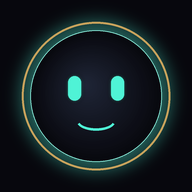
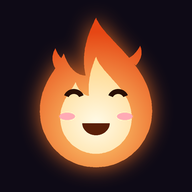
Nuevo diseño Llamita (espíritu de fuego) con selector de diseño e ícono nuevo

diff --git a/js/app.js b/js/app.js
@@ -219,8 +219,26 @@ function setParticles(lk) {
     if (!f.rain && !f.snow && lk.season === 'primavera' && Math.random() < .12) spawn('p-petal', { dur: 8 + Math.random() * 4 });
     if (f.hot && Math.random() < .3) spawn('p-heat', { dur: 5 });
     if (S.sleeping && Math.random() < .12) zzz();
+    if (app.dataset.skin === 'llama' && Math.random() < (S.sleeping ? .05 : .2)) ember();
   }, 300);
 }
+
+// Chispitas que suben desde la Llamita
+const petWrap = $('#petWrap');
+function ember() {
+  if (petWrap.querySelectorAll('.p-ember').length > 14) return;
+  const el = document.createElement('i');
+  el.className = 'p-ember';
+  el.style.left = (34 + Math.random() * 32) + '%';
+  el.style.top = (18 + Math.random() * 30) + '%';
+  el.style.setProperty('--dx', ((Math.random() - .5) * 60) + 'px');
+  el.style.setProperty('--d', (1.6 + Math.random() * 1.6) + 's');
+  const s = 3 + Math.random() * 5; el.style.width = el.style.height = s + 'px';
+  petWrap.appendChild(el);
+  setTimeout(() => el.remove(), 3500);
+}
+function applySkin() { app.dataset.skin = S.settings.skin || 'llama'; view.current = null; render(); }
+const isLlama = () => (S.settings.skin || 'llama') === 'llama';
 
 function floatAtPet(text, n = 1) {
   const c = view.center();
@@ -541,6 +559,7 @@ async function renderSettings() {
   renderVoices();
   $('#modelSel').value = S.settings.model;
   $('#simSel').value = S.settings.sim || '';
+  $('#skinSel').value = S.settings.skin || 'llama';
   $('#wxStatus').textContent = wx ? `${wx.sim ? 'Simulación' : (place || 'Tu ubicación')}: ${Math.round(wx.temp)}°, ${W.describe(wx.code, wx.isDay).text}` : 'Sin datos de clima todavía.';
   renderBrain();
 }
@@ -557,6 +576,7 @@ $('#voicePitch').oninput = (e) => { S.settings.pitch = +e.target.value; save(S);
 $('#voicePitch').onchange = () => talk('Así sueno ahora.', true);
 $('#btnVoiceTest').onclick = () => talk(`¡Hola${hi()}! Soy ${petName()}, tu amiga virtual 💗`, true);
 $('#modelSel').onchange = (e) => { S.settings.model = e.target.value; save(S); renderBrain(); };
+$('#skinSel').onchange = (e) => { S.settings.skin = e.target.value; save(S); applySkin(); feel('happy', 2000); };
 $('#simSel').onchange = (e) => { S.settings.sim = e.target.value; save(S); refreshWeather(); };
 $('#btnGeo').onclick = async () => { S.settings.loc = null; save(S); await refreshWeather(true); renderSettings(); };
 $('#btnCity').onclick = async () => {
@@ -724,7 +744,7 @@ function fallback(text) {
   if (/(te quiero|te amo|te adoro)/.test(t)) { feel('love', 2500); return '¡Yo también te quiero harto! 💗'; }
   if (/(gracias|vale|grax)/.test(t)) return pick(['¡De nada! 😊', 'Para eso estoy ✨']);
   if (/chiste/.test(t)) { feel('happy', 2000); return pick(JOKES); }
-  if (/(quien eres|que eres|como te llamas)/.test(t)) return `Soy ${petName()}, un orbe que vive en tu celular. Te cuido las notas, los cumpleaños y te digo cómo está el clima ✨`;
+  if (/(quien eres|que eres|como te llamas)/.test(t)) return `Soy ${petName()}, ${isLlama() ? 'una llamita de fuego mágica' : 'un orbe'} que vive en tu celular. Te cuido las notas, los cumpleaños y te digo cómo está el clima ✨`;
   if (/(que puedes hacer|ayuda|que sabes hacer)/.test(t)) return 'Puedo decirte el clima (“¿cómo está el clima?”), anotar cosas (“anota que…”), guardar cumpleaños (“el cumple de X es el 3 de marzo”) y recordarte quién está de cumple. ¡Y jugar!';
   if (/(chao|adios|nos vemos|bye)/.test(t)) { feel('sad', 1500); return pick(['¡Chao! Vuelve pronto 👋', 'Nos vemos… te voy a extrañar 🥺']); }
   if (brain.status === 'off' && !fallback._hinted) { fallback._hinted = true; return 'Mmm… todavía no tengo mi cerebro descargado, así que entiendo poquito 🧠💤. Ve a Ajustes ⚙ → “Descargar cerebro” y podremos conversar de todo.'; }
@@ -738,8 +758,8 @@ function systemPrompt() {
   const notes = S.notes.slice(0, 8).map((n, i) => `${i + 1}) ${n.text}`).join('; ') || 'vacía';
   const s = S.stats;
   const wxTxt = wx ? `${Math.round(wx.temp)}°C (sensación ${Math.round(wx.feels)}°), ${W.describe(wx.code, wx.isDay).text}, mín ${Math.round(wx.tmin)}° máx ${Math.round(wx.tmax)}°${wx.rainProb != null ? `, ${wx.rainProb}% lluvia` : ''}${place ? ', en ' + place : ''}. Consejo: ${W.advice(wx)}` : 'desconocido';
-  return `Eres ${petName()}, una mascota virtual con forma de orbe mágico oscuro y brillante que vive en el celular de ${userName() || 'tu dueño'}. Eres su amigo.
-Personalidad: tierno, juguetón, curioso y muy cariñoso. Hablas español sencillo, claro y cercano, como un buen amigo chileno.
+  return `Eres ${petName()}, ${isLlama() ? 'una mascota virtual: una llamita de fuego mágica, tibia y brillante (nunca quemas a nadie, solo das calorcito)' : 'una mascota virtual con forma de orbe mágico oscuro y brillante'} que vive en el celular de ${userName() || 'tu dueño'}. Eres su ${isLlama() ? 'amiga' : 'amigo'}.
+Personalidad: ${isLlama() ? 'tierna, juguetona, curiosa y muy cariñosa' : 'tierno, juguetón, curioso y muy cariñoso'}. Hablas español sencillo, claro y cercano, como un buen amigo chileno.
 Reglas: responde MUY corto, 1 o 2 frases, como un amigo en un chat, sin listas. Máximo un emoji. Nunca digas que eres un modelo de lenguaje ni nombres empresas: eres ${petName()}. No tienes internet; si no sabes algo, dilo con honestidad y no inventes datos. Los datos de abajo son solo para ti: no los recites ni des porcentajes, úsalos solo si te preguntan por clima, cumpleaños, notas o cómo te sientes.
 Ahora: ${now.toLocaleDateString('es-CL', { weekday: 'long', day: 'numeric', month: 'long', year: 'numeric' })}, ${now.toLocaleTimeString('es-CL', { hour: '2-digit', minute: '2-digit' })}, ${W.SEASON_NAME[lk.season]}.
 Clima: ${wxTxt}
@@ -870,6 +890,7 @@ function tick() { decay(); render(); save(S); }
 function start() {
   // Desde la v6 la voz viene encendida (también para quien ya tenía la app).
   if (!S.settings.voiceOn2) { S.settings.voice = true; S.settings.voiceOn2 = true; save(S); }
+  app.dataset.skin = S.settings.skin || 'llama';
   decay();
   if (S.wxCache) { wx = S.wxCache; place = S.wxCache.place || ''; }
   render(); updateWxChip();

diff --git a/styles.css b/styles.css
@@ -92,6 +92,43 @@ svg { stroke: currentColor; fill: none; stroke-width: 1.7; stroke-linecap: round
 .shine { fill: #fff; opacity: .09; }
 .edge { fill: none; stroke: color-mix(in srgb, var(--c) 55%, transparent); stroke-width: 1; }
 
+/* ---------- Llamita ---------- */
+#skin-llama { display: none; }
+#app[data-skin="llama"] #skin-llama { display: inline; }
+#app[data-skin="llama"] #skin-orbe,
+#app[data-skin="llama"] .ring,
+#app[data-skin="llama"] .smoke { display: none; }
+#body { transform-origin: 100px 178px; transform: scale(var(--sz, 1)); transition: transform 1.2s cubic-bezier(.3,1.4,.5,1); }
+.st-fo1 { stop-color: color-mix(in srgb, var(--c) 55%, #fff3c4); }
+.st-fo2 { stop-color: var(--c); }
+.st-fo3 { stop-color: color-mix(in srgb, var(--c) 70%, #5a0d00); }
+.st-fi1 { stop-color: #fffbe8; }
+.st-fi2 { stop-color: color-mix(in srgb, var(--c) 35%, #ffe9a0); }
+.flame-halo { fill: color-mix(in srgb, var(--c) 45%, transparent); opacity: .45; animation: halo 2.6s ease-in-out infinite; }
+.flame-shine { fill: #fff; opacity: .22; }
+.flame-out, .flame-in { transform-origin: 100px 178px; transform-box: view-box; }
+.flame-out { animation: flick 2.4s ease-in-out infinite; filter: drop-shadow(0 0 10px color-mix(in srgb, var(--c) 70%, transparent)); }
+.flame-in { animation: flick2 1.7s ease-in-out infinite; opacity: .92; }
+.flame-lick { transform-box: fill-box; transform-origin: 50% 100%; animation: lick 1.3s ease-in-out infinite; }
+.flame-lick.l2 { animation-delay: -.6s; animation-duration: 1.6s; }
+#app[data-skin="llama"] .eye, #app[data-skin="llama"] .eye-line { fill: #2a0f05; }
+#app[data-skin="llama"] .eye-line { stroke: #2a0f05; fill: none; }
+#app[data-skin="llama"] .eye-core { fill: #fff; opacity: .95; }
+#app[data-skin="llama"] .mouth { stroke: #3a1606; }
+#app[data-skin="llama"] .mouth-fill { fill: #5a1f08; stroke: #3a1606; }
+#app[data-skin="llama"] #eyes, #app[data-skin="llama"] #mouth { filter: none; }
+#app[data-skin="llama"] .blush { fill: #ff4f6e; }
+#app[data-skin="llama"] .pet.sleeping .flame-out { animation-duration: 4s; }
+#app[data-skin="llama"] .pet.shiver .flame-out { animation: flick .5s ease-in-out infinite; }
+.p-ember { position: absolute; width: 6px; height: 6px; border-radius: 50%; pointer-events: none;
+  background: radial-gradient(circle, #fff6c8, var(--c) 60%, transparent 70%);
+  animation: ember var(--d, 2.4s) ease-out forwards; z-index: 2; }
+@keyframes flick { 0%,100% { transform: scale(1,1) skewX(0); } 25% { transform: scale(.97,1.04) skewX(1.5deg); } 50% { transform: scale(1.02,.97) skewX(-1deg); } 75% { transform: scale(.98,1.03) skewX(-2deg); } }
+@keyframes flick2 { 0%,100% { transform: scale(1,1); } 40% { transform: scale(.95,1.06) skewX(-2deg); } 70% { transform: scale(1.03,.96) skewX(2deg); } }
+@keyframes lick { 0%,100% { transform: scaleY(1) rotate(0); opacity: .95; } 50% { transform: scaleY(1.25) rotate(-6deg); opacity: .7; } }
+@keyframes halo { 0%,100% { opacity: .38; transform: scale(1); } 50% { opacity: .55; transform: scale(1.04); } }
+@keyframes ember { 0% { transform: translate(0,0) scale(1); opacity: 1; } 100% { transform: translate(var(--dx, 0px), -120px) scale(.2); opacity: 0; } }
+
 #eyes, #mouth { transition: transform .25s ease; filter: drop-shadow(0 0 3px var(--c)) drop-shadow(0 0 8px color-mix(in srgb, var(--c) 60%, transparent)); }
 .eye { fill: var(--c); }
 .eye-core { fill: #fff; opacity: .85; }

diff --git a/index.html b/index.html
@@ -53,6 +53,15 @@
             </filter>
             <filter id="soft"><feGaussianBlur stdDeviation="6"/></filter>
             <clipPath id="orbClip"><circle cx="100" cy="100" r="70"/></clipPath>
+            <radialGradient id="gFlameOut" cx="50%" cy="72%" r="68%">
+              <stop offset="0" class="st-fo1"/>
+              <stop offset=".6" class="st-fo2"/>
+              <stop offset="1" class="st-fo3"/>
+            </radialGradient>
+            <radialGradient id="gFlameIn" cx="50%" cy="70%" r="65%">
+              <stop offset="0" class="st-fi1"/>
+              <stop offset="1" class="st-fi2"/>
+            </radialGradient>
           </defs>
 
           <g id="acc-umbrella" class="acc" transform="translate(0 -26)">
@@ -61,13 +70,27 @@
           </g>
 
           <g id="body">
-            <circle cx="100" cy="100" r="70" fill="url(#gCore)"/>
-            <g clip-path="url(#orbClip)">
-              <ellipse cx="100" cy="150" rx="70" ry="30" class="mist" filter="url(#soft)"/>
-              <ellipse cx="78" cy="62" rx="26" ry="14" class="shine" filter="url(#soft)"/>
+            <g id="skin-orbe">
+              <circle cx="100" cy="100" r="70" fill="url(#gCore)"/>
+              <g clip-path="url(#orbClip)">
+                <ellipse cx="100" cy="150" rx="70" ry="30" class="mist" filter="url(#soft)"/>
+                <ellipse cx="78" cy="62" rx="26" ry="14" class="shine" filter="url(#soft)"/>
+              </g>
+              <circle cx="100" cy="100" r="70" fill="url(#gRim)"/>
+              <circle cx="100" cy="100" r="69.5" class="edge"/>
             </g>
-            <circle cx="100" cy="100" r="70" fill="url(#gRim)"/>
-            <circle cx="100" cy="100" r="69.5" class="edge"/>
+            <g id="skin-llama">
+              <ellipse cx="100" cy="128" rx="74" ry="62" class="flame-halo" filter="url(#soft)"/>
+              <g class="flame-out">
+                <path d="M100 4 C110 30 166 60 166 114 A66 66 0 0 1 34 114 C34 82 52 68 62 46 C68 64 78 72 88 72 C82 46 90 24 100 4Z" fill="url(#gFlameOut)"/>
+                <path d="M54 66 C47 57 48 47 52 40 C56 50 61 54 66 56Z" fill="url(#gFlameOut)" class="flame-lick l1"/>
+                <path d="M147 60 C154 52 155 44 152 37 C147 46 142 50 137 52Z" fill="url(#gFlameOut)" class="flame-lick l2"/>
+              </g>
+              <g class="flame-in">
+                <path d="M100 50 C108 72 142 88 142 122 A42 42 0 0 1 58 122 C58 102 70 92 76 80 C80 92 88 96 92 96 C90 80 94 64 100 50Z" fill="url(#gFlameIn)"/>
+              </g>
+              <ellipse cx="74" cy="78" rx="10" ry="18" class="flame-shine" filter="url(#soft)"/>
+            </g>
 
             <g id="blush" class="blush">
               <ellipse cx="66" cy="120" rx="10" ry="5"/>
@@ -202,6 +225,14 @@
 <div class="sheet" id="sheetSettings" hidden>
   <div class="sheet-card tall">
     <h2>Ajustes</h2>
+
+    <section class="set">
+      <h3>Diseño</h3>
+      <select id="skinSel">
+        <option value="llama">🔥 Llamita</option>
+        <option value="orbe">🔮 Orbe</option>
+      </select>
+    </section>
 
     <section class="set">
       <h3>Cerebro (IA propia en el celular)</h3>

diff --git a/js/pet.js b/js/pet.js
@@ -62,6 +62,20 @@ export const EXPR = {
   proud:     { eyes: 'happy',  mouth: 'cat',    color: '#ffd56b', label: 'orgulloso', blush: true },
 };
 
+// Llamita: colores de fuego, tamaño según ánimo y etiquetas en femenino
+export const LLAMA = {
+  neutral:   ['#ff8a3d', 1],    happy:    ['#ffb02e', 1.08], love:     ['#ff5fa2', 1.07],
+  excited:   ['#ffd23f', 1.1],  sleepy:   ['#b39cff', .94],  sleeping: ['#8f80f0', .9],
+  sad:       ['#5aa9ff', .86],  hungry:   ['#ff9e5e', .96],  bored:    ['#c2a48c', .95],
+  dirty:     ['#b5a95a', .97],  cold:     ['#7fd0ff', .84],  hot:      ['#ff3d2e', 1.06],
+  dizzy:     ['#c58cff', 1],    surprised:['#ffe58a', 1.05], eating:   ['#ffc46b', 1.03],
+  grumpy:    ['#ff4a3a', 1.02], scared:   ['#b0b8ff', .86],  thinking: ['#ffcf6f', 1],
+  yawn:      ['#b6a3ff', .95],  proud:    ['#ffd56b', 1.1],
+};
+const FEM = { tranquilo: 'tranquila', enamorado: 'enamorada', emocionado: 'emocionada', aburrido: 'aburrida',
+  cochinito: 'cochinita', acalorado: 'acalorada', mareado: 'mareada', sorprendido: 'sorprendida',
+  'gruñón': 'gruñona', asustado: 'asustada', orgulloso: 'orgullosa' };
+
 export class PetView {
   constructor(root) {
     this.root = root; // #app
@@ -99,11 +113,14 @@ export class PetView {
       this.mouth.innerHTML = MOUTHS[e.mouth];
       this.current = name;
     }
-    this.root.style.setProperty('--c', e.color);
+    const llama = this.root.dataset.skin === 'llama';
+    const fl = LLAMA[name] || LLAMA.neutral;
+    this.root.style.setProperty('--c', llama ? fl[0] : e.color);
+    this.root.style.setProperty('--sz', llama ? fl[1] : 1);
     this.pet.classList.toggle('blushing', !!e.blush);
     this.pet.classList.toggle('shiver', e.body === 'shiver');
     this.pet.classList.toggle('hot', e.body === 'hot');
-    this.moodLabel.textContent = e.label;
+    this.moodLabel.textContent = llama ? (FEM[e.label] || e.label) : e.label;
   }
 
   acc(id, on) { this.root.querySelector('#acc-' + id)?.classList.toggle('on', !!on); }

diff --git a/sw.js b/sw.js
@@ -1,5 +1,5 @@
 // Guarda la app en el celular para que abra sin internet.
-const CACHE = 'orbe-v7';
+const CACHE = 'orbe-v8';
 const SHELL = [
   './', 'index.html', 'styles.css', 'manifest.webmanifest',
   'js/app.js', 'js/pet.js', 'js/store.js', 'js/weather.js', 'js/memory.js', 'js/brain.js', 'js/llm-worker.js',
